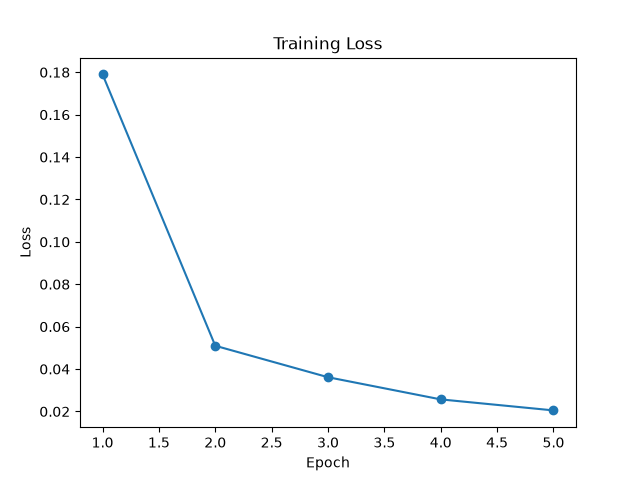
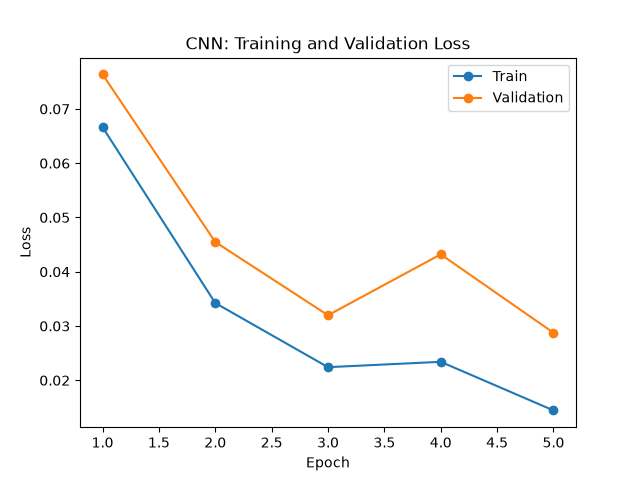
made some minor corrections

diff --git a/fc.py b/fc.py
@@ -34,22 +34,28 @@ test_dataset = torchvision.datasets.MNIST(
 train_size = int(len(train_dataset) * 0.9)
 val_size = len(train_dataset) - train_size
 
-train_subnet, val_subnet = random_split(
+train_subset, val_subset = random_split(
     train_dataset,
     [train_size, val_size],
     generator = torch.Generator().manual_seed(1)
 )
 
 train_loader = DataLoader(
-    train_subnet,
+    train_subset,
     batch_size=64,
     shuffle=True
 )
 
-val_loader = DataLoader(
-    val_subnet,
+train_val_loader = DataLoader(
+    train_subset,
     batch_size=64,
-    shuffle = True
+    shuffle=False
+)
+
+val_loader = DataLoader(
+    val_subset,
+    batch_size=64,
+    shuffle = False
 )
 
 test_loader = DataLoader(
@@ -84,7 +90,7 @@ model = NeuralNetwork()
 
 optimizer = optim.Adam(model.parameters(), lr=0.001)
 
-start_time = time.perf_counter()
+training_time = 0
 
 epochs = 5
 
@@ -93,13 +99,12 @@ train_accuracy_history = []
 val_loss_history = []
 val_accuracy_history = []
 
+history = []
+
 for epoch in range(epochs):
 
     model.train()
-
-    train_total_loss = 0
-    train_correct = 0
-    train_total = 0
+    start_time = time.perf_counter()
 
     for images, labels in train_loader:
 
@@ -117,13 +122,27 @@ for epoch in range(epochs):
 
         # パラメータ更新
         optimizer.step()
+    
+    end_time = time.perf_counter()
+    training_time += end_time - start_time
 
-        train_total_loss += loss.item()
-        predicted = outputs.argmax(dim=1)
-        train_correct += (predicted == labels).sum().item()
-        train_total += labels.size(0)
+    model.eval()
 
-    avg_loss = train_total_loss / len(train_loader)
+    train_total_loss = 0
+    train_correct = 0
+    train_total = 0
+
+    with torch.no_grad():
+        for images,labels in train_loader:
+            outputs = model(images)
+            loss = criterion(outputs, labels)
+
+            train_total_loss += loss.item() * labels.size(0)
+            predicted = outputs.argmax(dim=1)
+            train_correct += (predicted == labels).sum().item()
+            train_total += labels.size(0)
+
+    avg_loss = train_total_loss / train_total
     accuracy = 100 * train_correct / train_total
     train_loss_history.append(avg_loss)
     train_accuracy_history.append(accuracy)
@@ -135,17 +154,17 @@ for epoch in range(epochs):
     val_total = 0
 
     with torch.no_grad():
-        for images, labels in val_loader:
+        for images, labels in train_val_loader:
             outputs = model(images)
             loss = criterion(outputs, labels)
 
-            val_total_loss += loss.item()
+            val_total_loss += loss.item() * labels.size(0)
 
             predicted = outputs.argmax(dim=1)
             val_correct += (predicted == labels).sum().item()
             val_total += labels.size(0)
 
-    val_avg_loss = val_total_loss / len(val_loader)
+    val_avg_loss = val_total_loss / val_total
     val_accuracy = 100 * val_correct / val_total
 
     val_loss_history.append(val_avg_loss)
@@ -153,19 +172,22 @@ for epoch in range(epochs):
 
     print(
         f"Epoch [{epoch + 1}/{epochs}], "
-        f"Loss: {avg_loss:.4f}"
-        f"Train Accuracy: {accuracy:.2f}%,"
-        f"Val Loss: {val_avg_loss:4f},"
+        f"Loss: {avg_loss:.4f}, "
+        f"Train Accuracy: {accuracy:.2f}%, "
+        f"Val Loss: {val_avg_loss:4f}, "
         f"Val Accuracy: {val_accuracy:.2f}%"
     )
 
-end_time = time.perf_counter()
-training_time = end_time - start_time
+    history.append({
+        "Epoch": epoch + 1,
+        "Train Loss": avg_loss,
+        "Train Accuracy": accuracy,
+        "Val Loss": val_avg_loss,
+        "Val Accuracy": val_accuracy
+    })
 
 print(f"学習時間 : {training_time:.2f}秒")
 
-    # モデルを評価モードにする
-model.eval()
 
 test_correct = 0
 test_total = 0
@@ -266,16 +288,25 @@ else:
 
 results.to_csv(csv_path, index=False)
 
-plt.plot(range(1, epochs+1), train_loss_history, marker = "o")
+plt.plot(range(1, epochs+1), train_loss_history, marker = "o", label = "Train")
+plt.plot(range(1, epochs+1), val_loss_history, marker = "o", label = "Validation")
 plt.xlabel("Epoch")
 plt.ylabel("Loss")
-plt.title("Training Loss")
+plt.title("FC: Training and Validation Loss")
+plt.legend()
 plt.savefig("results/fc_loss.png")
 plt.show()
 
-plt.plot(range(1, epochs+1), train_loss_history, marker = "o")
+plt.plot(range(1, epochs+1), train_accuracy_history, marker = "o", label = "Train")
+plt.plot(range(1, epochs+1), val_accuracy_history, marker = "o", label = "Validation")
 plt.xlabel("Epoch")
 plt.ylabel("Accuracy (%)")
-plt.title("Training and Validation Accuracy")
+plt.title("FC: Training and Validation Accuracy")
+plt.legend()
 plt.savefig("results/fc_accuracy.png")
 plt.show()
+
+history_df = pd.DataFrame(history)
+
+os.makedirs("results", exist_ok=True)
+history_df.to_csv("results/fc_history.csv", index=False)

diff --git a/cnn.py b/cnn.py
@@ -33,16 +33,22 @@ test_dataset = torchvision.datasets.MNIST(
 train_size = int(len(train_dataset) * 0.9)
 val_size = len(train_dataset) - train_size
 
-train_subnet, val_subnet = random_split(
+train_subset, val_subset = random_split(
     train_dataset,
     [train_size, val_size],
     generator = torch.Generator().manual_seed(1)
 )
 
 train_loader = DataLoader(
-    train_dataset,
+    train_subset,
     batch_size=64,
     shuffle=True
+)
+
+train_val_loader = DataLoader(
+    train_subset,
+    batch_size=64,
+    shuffle=False
 )
 
 test_loader = DataLoader(
@@ -52,9 +58,9 @@ test_loader = DataLoader(
 )
 
 val_loader = DataLoader(
-    val_subnet,
+    val_subset,
     batch_size=64,
-    shuffle = True
+    shuffle = False
 )
 
 class CNN(nn.Module):
@@ -93,7 +99,7 @@ model = CNN()
 optimizer = optim.Adam(model.parameters(), lr=0.001)
 criterion = nn.CrossEntropyLoss()
 
-start_time = time.perf_counter()
+training_time = 0
 
 epochs = 5
 
@@ -102,13 +108,12 @@ train_accuracy_history = []
 val_loss_history = []
 val_accuracy_history = []
 
+history = []
+
 for epoch in range(epochs):
 
     model.train()
-
-    train_total_loss = 0
-    train_correct = 0
-    train_total = 0
+    start_time = time.perf_counter()
 
     for images, labels in train_loader:
 
@@ -122,17 +127,31 @@ for epoch in range(epochs):
 
         optimizer.step()
 
-        train_total_loss += loss.item()
-        predicted = outputs.argmax(dim=1)
-        train_correct += (predicted == labels).sum().item()
-        train_total += labels.size(0)
+    end_time = time.perf_counter()
+    training_time += end_time - start_time
 
-    avg_loss =  train_total_loss / len(train_loader)
+
+    model.eval()
+
+    train_total_loss = 0
+    train_correct = 0
+    train_total = 0
+
+    with torch.no_grad():
+        for images,labels in train_val_loader:
+            outputs = model(images)
+            loss = criterion(outputs, labels)
+
+            train_total_loss += loss.item() * labels.size(0)
+            predicted = outputs.argmax(dim=1)
+            train_correct += (predicted == labels).sum().item()
+            train_total += labels.size(0)
+
+    avg_loss =  train_total_loss / train_total
     accuracy = 100 * train_correct / train_total
     train_accuracy_history.append(accuracy)
     train_loss_history.append(avg_loss)
 
-    model.eval()
 
     val_total_loss = 0
     val_correct = 0
@@ -143,13 +162,13 @@ for epoch in range(epochs):
             outputs = model(images)
             loss = criterion(outputs, labels)
 
-            val_total_loss += loss.item()
+            val_total_loss += loss.item() * labels.size(0)
 
             predicted = outputs.argmax(dim=1)
             val_correct += (predicted == labels).sum().item()
             val_total += labels.size(0)
 
-    val_avg_loss = val_total_loss / len(val_loader)
+    val_avg_loss = val_total_loss / val_total
     val_accuracy = 100 * val_correct / val_total
 
     val_loss_history.append(val_avg_loss)
@@ -158,18 +177,22 @@ for epoch in range(epochs):
 
     print(
         f"Epoch [{epoch + 1}/{epochs}], "
-        f"Loss: {avg_loss:.4f}"
-        f"Train Accuracy: {accuracy:.2f}%,"
-        f"Val Loss: {val_avg_loss:4f},"
+        f"Loss: {avg_loss:.4f}, "
+        f"Train Accuracy: {accuracy:.2f}%, "
+        f"Val Loss: {val_avg_loss:4f}, "
         f"Val Accuracy: {val_accuracy:.2f}%"
     )
 
-end_time = time.perf_counter()
-training_time = end_time - start_time
+    history.append({
+        "Epoch": epoch + 1,
+        "Train Loss": avg_loss,
+        "Train Accuracy": accuracy,
+        "Val Loss": val_avg_loss,
+        "Val Accuracy": val_accuracy
+    })
 
 print(f"学習時間 : {training_time:.2f}秒")
 
-model.eval()
 
 test_correct = 0
 test_total = 0
@@ -266,16 +289,25 @@ else:
 results.to_csv(csv_path, index=False)
 
 
-plt.plot(range(1, epochs+1), train_loss_history, marker = "o")
+plt.plot(range(1, epochs+1), train_loss_history, marker = "o", label = "Train")
+plt.plot(range(1, epochs+1), val_loss_history, marker = "o", label = "Validation")
 plt.xlabel("Epoch")
 plt.ylabel("Loss")
-plt.title("Training Loss")
+plt.title("CNN: Training and Validation Loss")
+plt.legend()
 plt.savefig("results/cnn_loss.png")
 plt.show()
 
-plt.plot(range(1, epochs+1), train_loss_history, marker = "o")
+plt.plot(range(1, epochs+1), train_accuracy_history, marker = "o", label = "Train")
+plt.plot(range(1, epochs+1), val_accuracy_history, marker = "o", label = "Validation")
 plt.xlabel("Epoch")
 plt.ylabel("Accuracy (%)")
-plt.title("Training and Validation Accuracy")
+plt.title("CNN: Training and Validation Accuracy")
+plt.legend()
 plt.savefig("results/cnn_accuracy.png")
 plt.show()
+
+history_df = pd.DataFrame(history)
+
+os.makedirs("results", exist_ok=True)
+history_df.to_csv("results/cnn_history.csv", index=False)

diff --git a/compare.py b/compare.py
@@ -1,0 +1,34 @@
+import pandas as pd
+import matplotlib.pyplot as plt
+
+
+fc_df = pd.read_csv("results/fc_history.csv")
+cnn_df = pd.read_csv("results/cnn_history.csv")
+
+
+plt.plot(fc_df["Epoch"], fc_df["Train Loss"], marker="o", label="FC Train")
+plt.plot(fc_df["Epoch"], fc_df["Val Loss"], marker="o", label="FC Validation")
+
+plt.plot(fc_df["Epoch"], cnn_df["Train Loss"], marker="o", label="CNN Train")
+plt.plot(fc_df["Epoch"], cnn_df["Val Loss"], marker="o", label="CNN Validation")
+
+plt.xlabel("Epoch")
+plt.ylabel("Loss")
+plt.title("FC vs CNN: Loss")
+plt.legend()
+plt.savefig("results/loss_comparison.png")
+plt.show()
+
+
+plt.plot(fc_df["Epoch"], fc_df["Train Accuracy"], marker="o", label="FC Train")
+plt.plot(fc_df["Epoch"], fc_df["Val Accuracy"], marker="o", label="FC Validation")
+
+plt.plot(fc_df["Epoch"], cnn_df["Train Accuracy"], marker="o", label="CNN Train")
+plt.plot(fc_df["Epoch"], cnn_df["Val Accuracy"], marker="o", label="CNN Validation")
+
+plt.xlabel("Epoch")
+plt.ylabel("Accuracy (%)")
+plt.title("FC vs CNN: Accuracy")
+plt.legend()
+plt.savefig("results/accuracy_comparison.png")
+plt.show()
